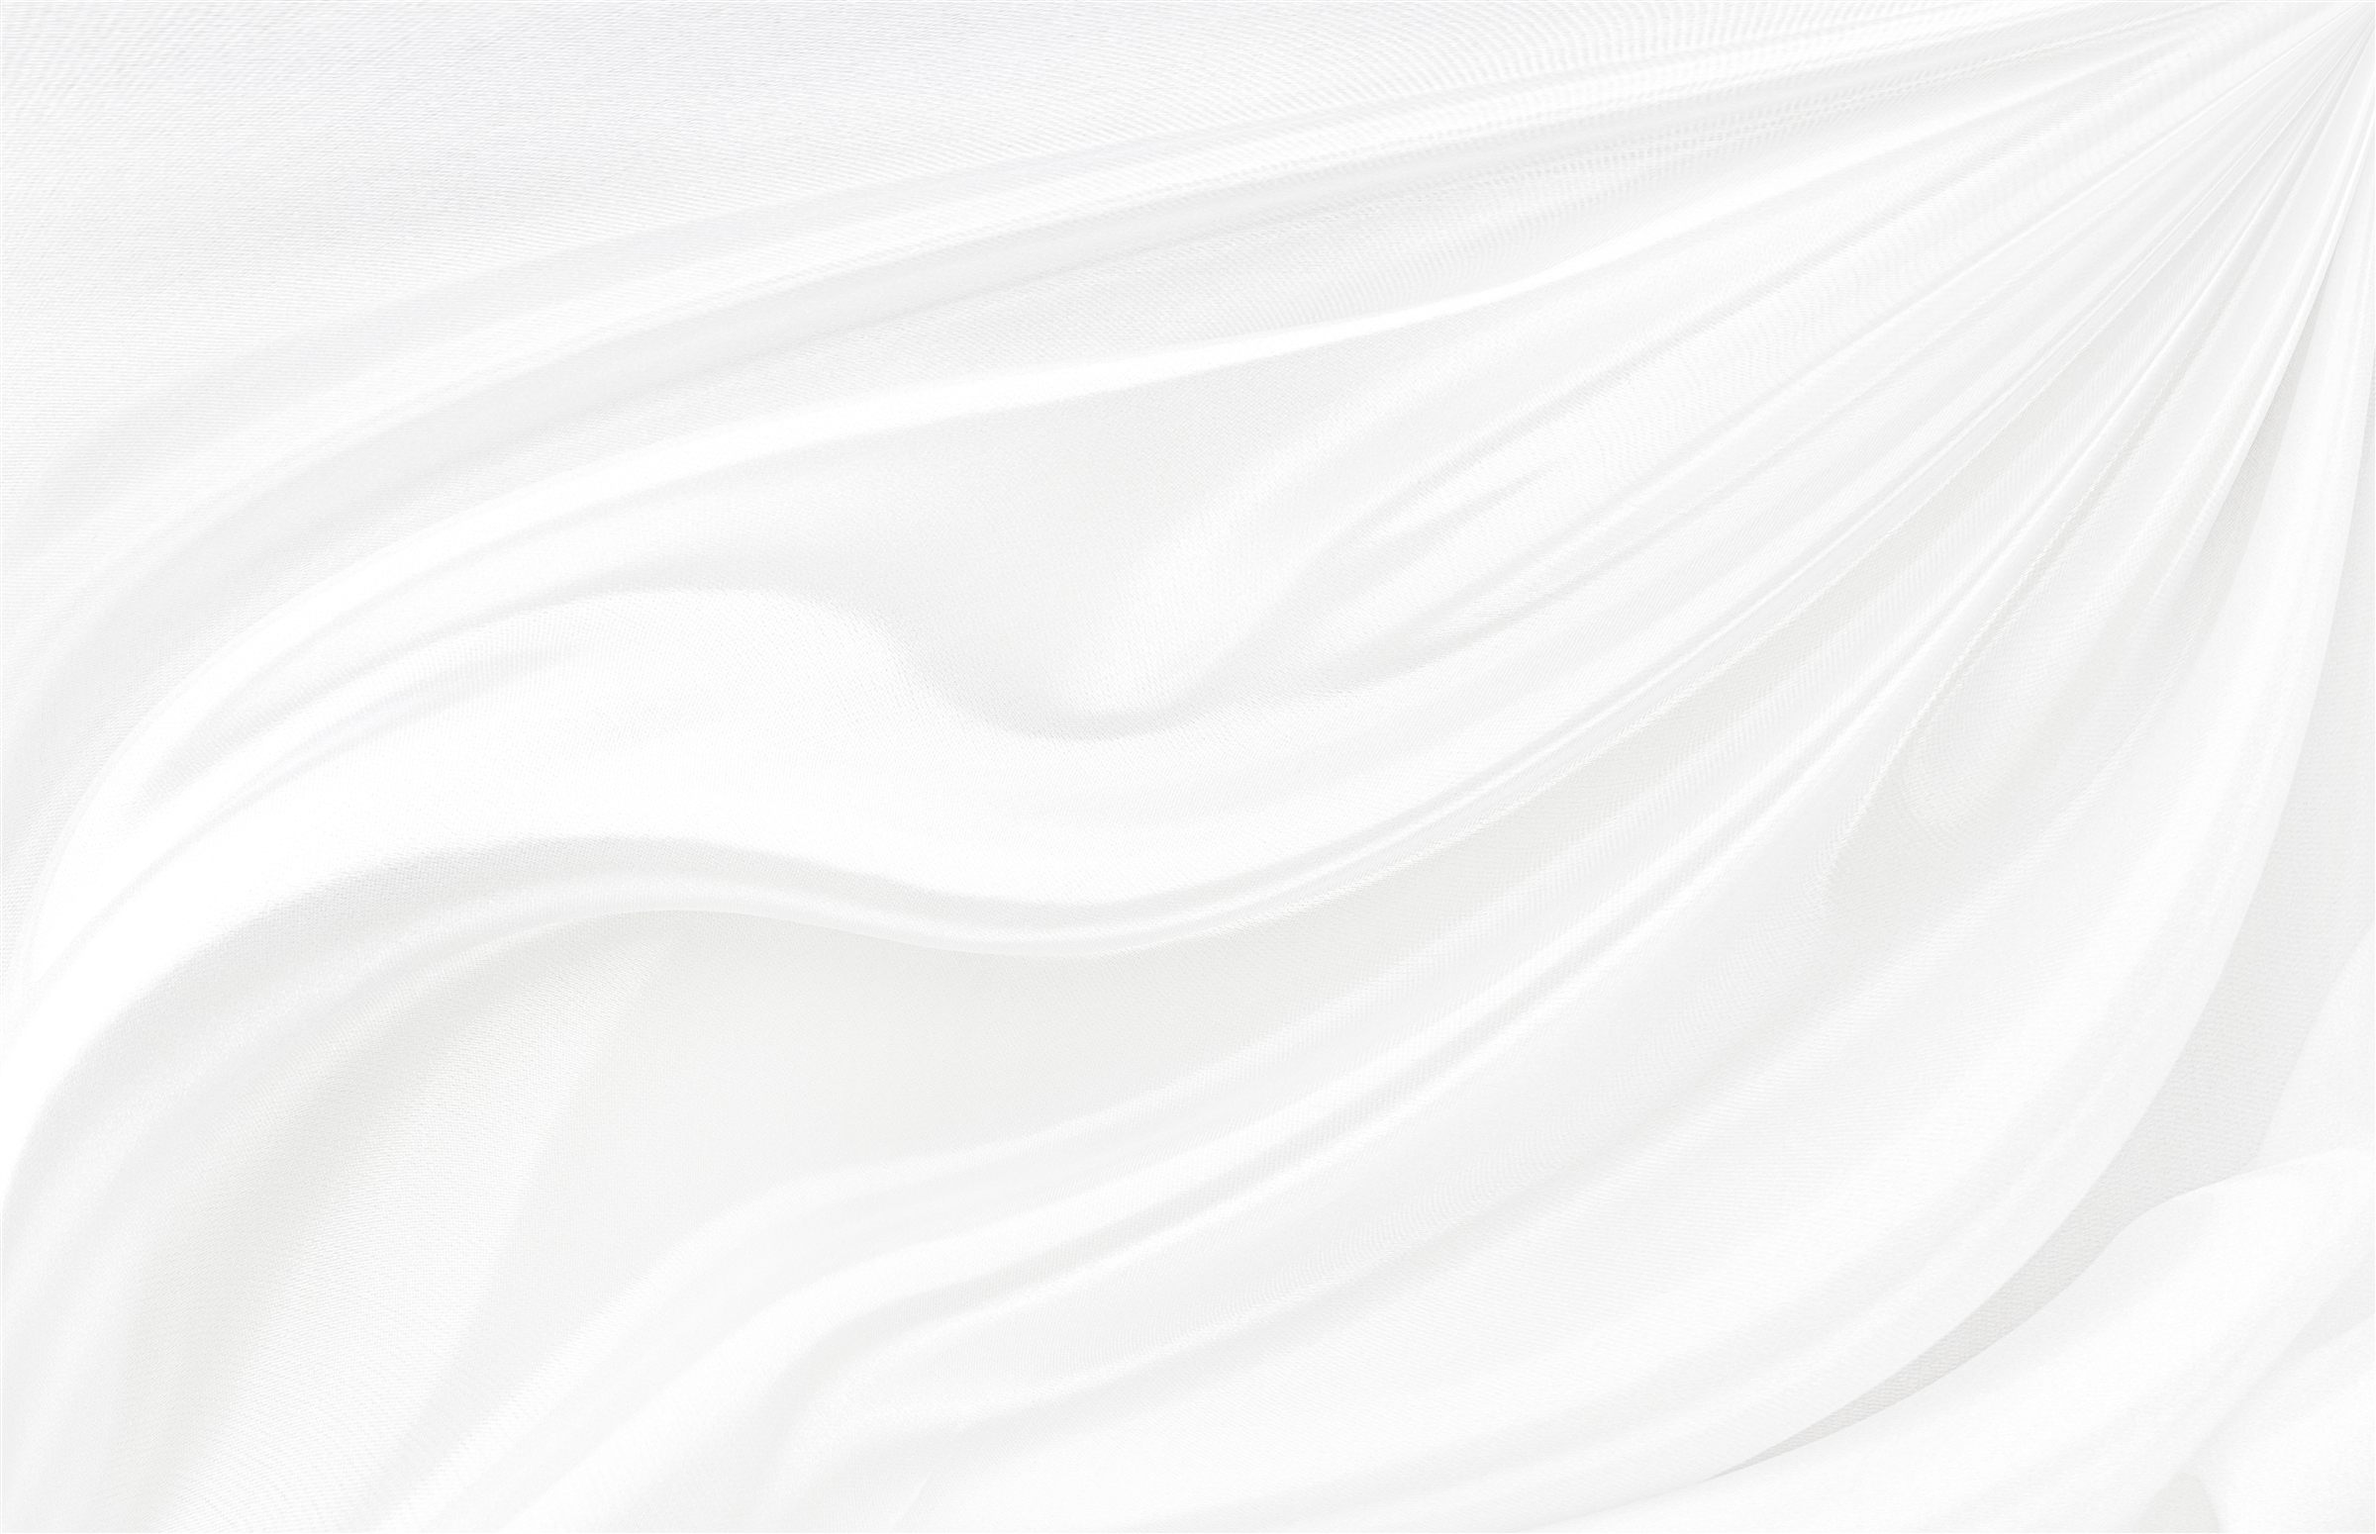
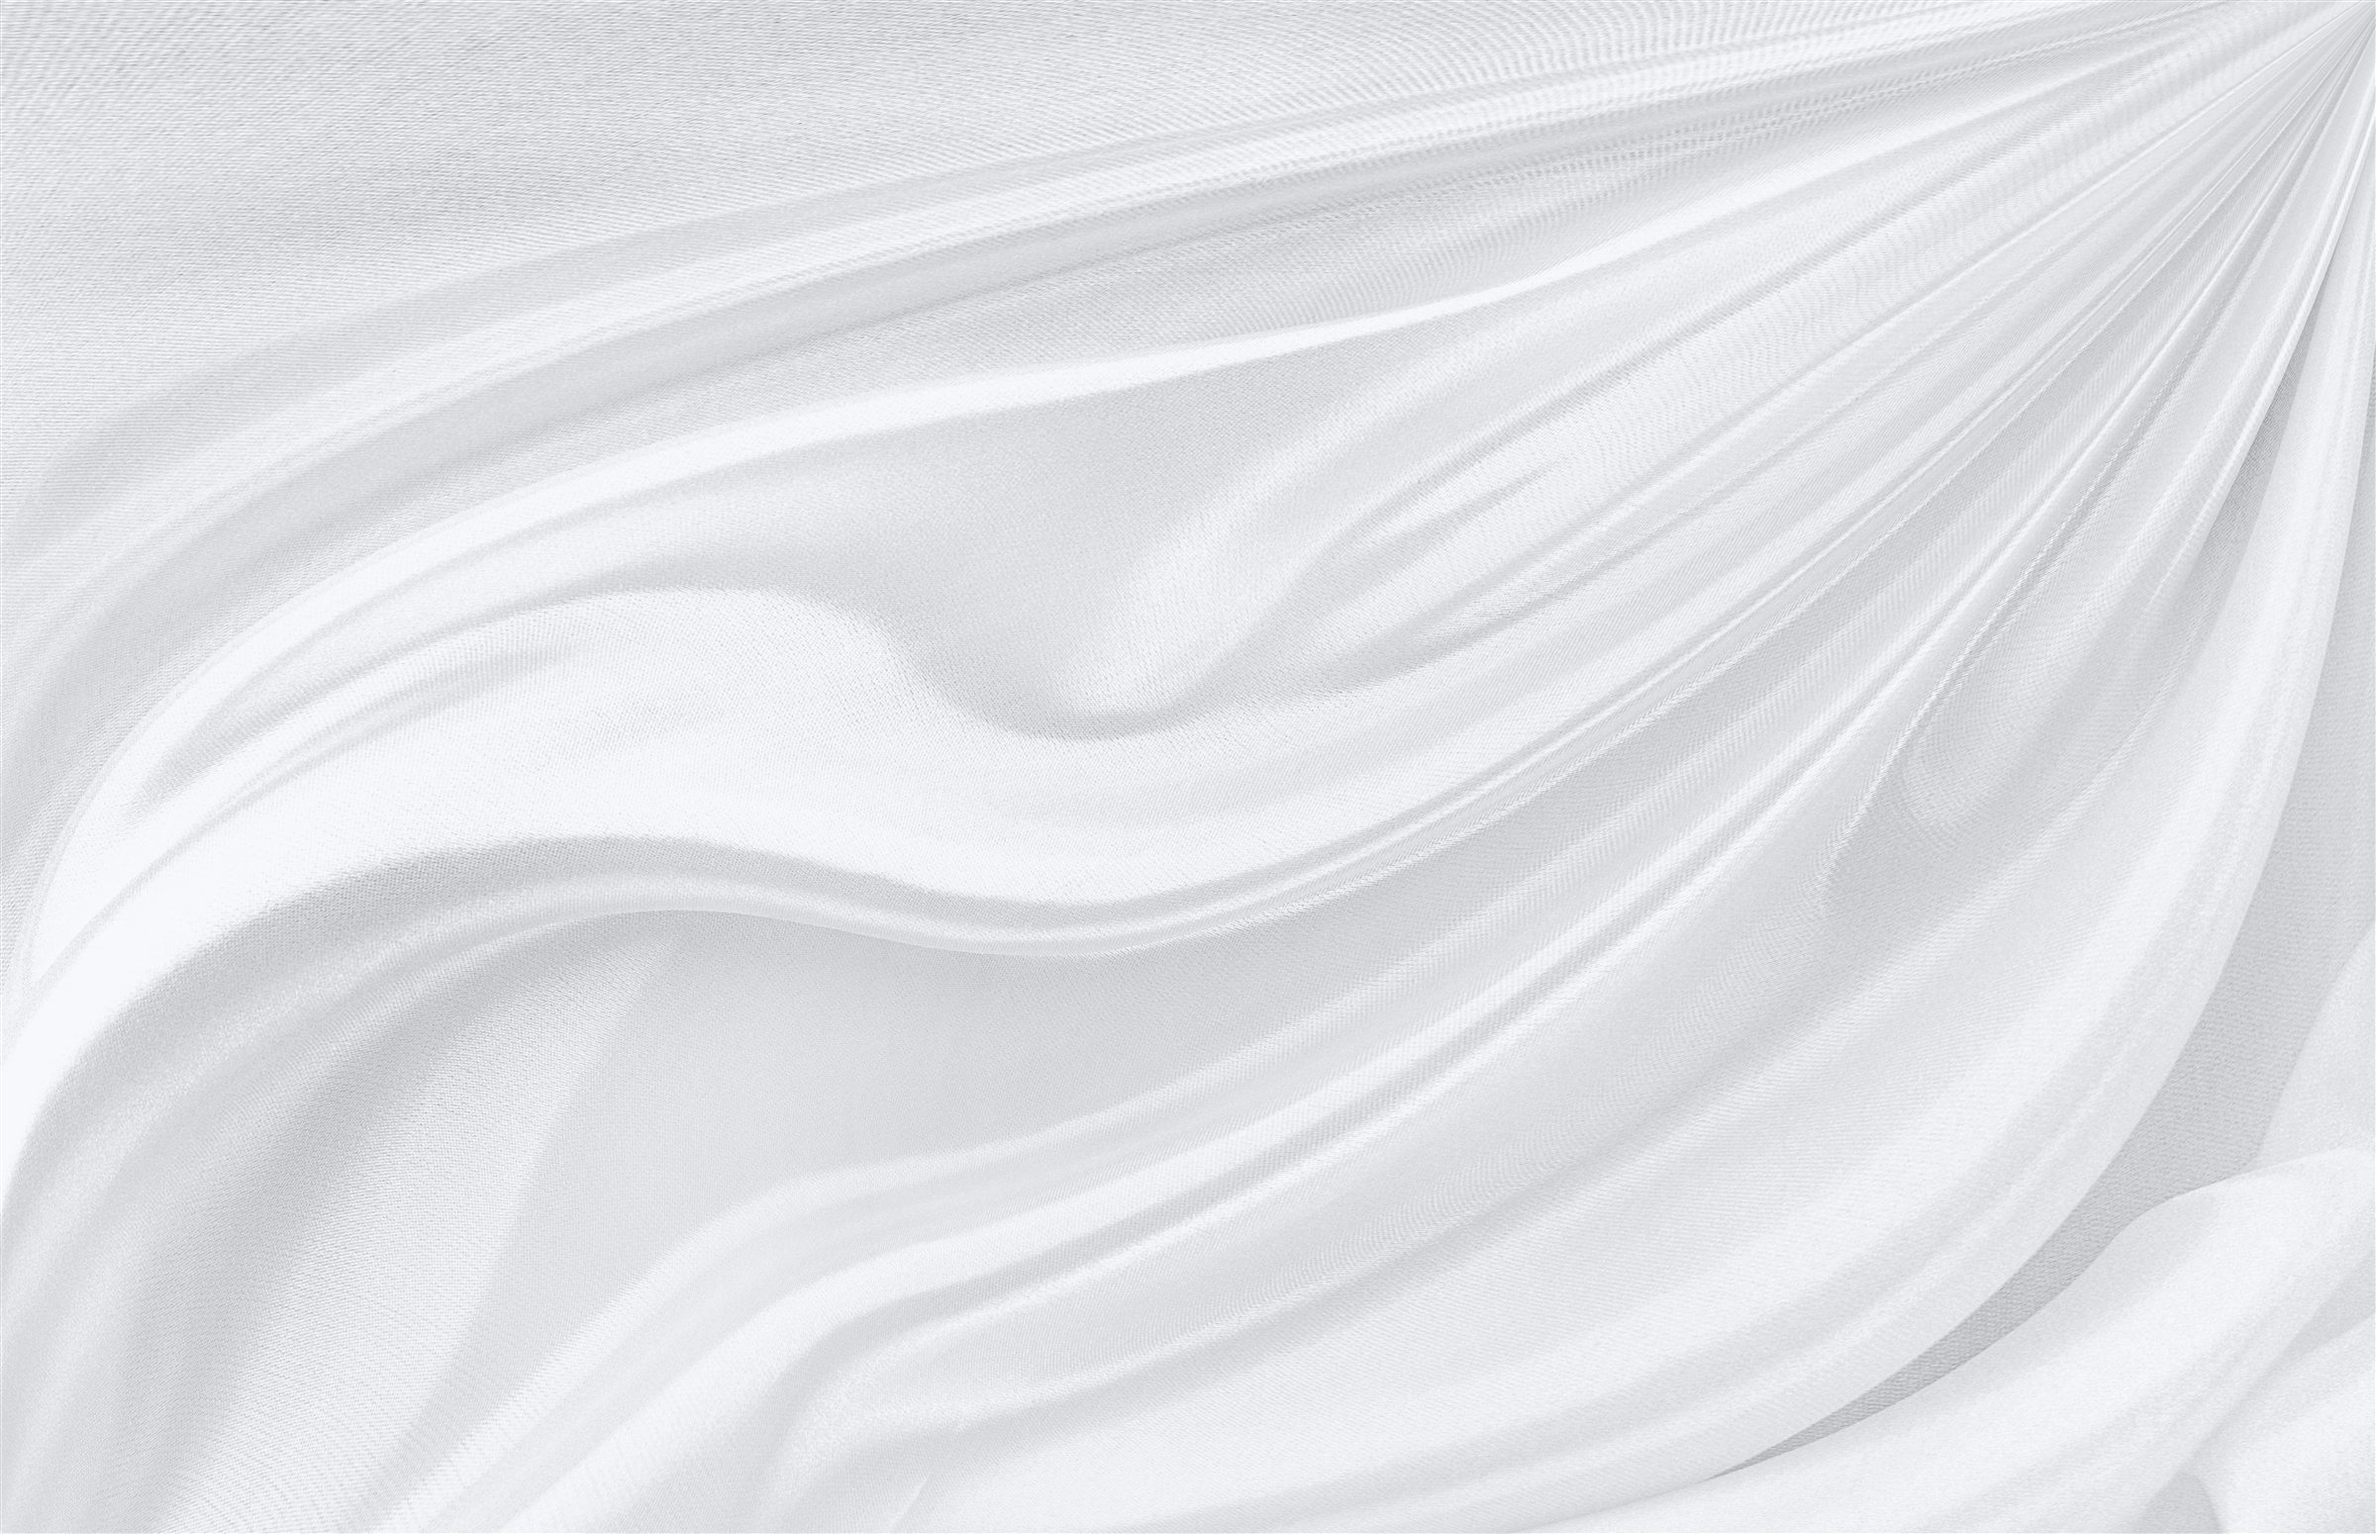
product/xgen: decisive satin bg - gray tone baked into image, drop CSS filter/blend

diff --git a/frontend/src/components/product-xgen/why-xgen.tsx b/frontend/src/components/product-xgen/why-xgen.tsx
@@ -309,7 +309,7 @@ function AuroraBandVideo() {
 }
 
 /* 결정적 차이 배경 — Adobe Stock 1134897320(흰·은회색 새틴 결이 대각선으로 흐르는 실사, 무료 라이선스, 2400px로 축소).
-   그레이 톤 유지: 사진을 흑백으로 바꿔 옅은 회색 바탕(#e9ebef) 위에 곱하기로 얹고, 결의 명암만 살짝 올린다.
+   그레이 톤 유지: 흑백·회색 톤(중앙값 ≈ #e6e9ec)을 이미지 파일에 미리 입혀 CSS 필터·블렌드 없이 그대로 쓴다.
    결이 아주 천천히 비스듬히 흘러가듯 움직인다(동작 줄이기 땐 정지). 가운데는 밝은 회색 막으로 글 읽힘을 확보. */
 function DecisiveSatinBg() {
     return (
@@ -317,11 +317,11 @@ function DecisiveSatinBg() {
             <img
                 src="/product/why/decisive-satin.jpg"
                 alt=""
-                className="decisive-satin absolute inset-[-6%] h-[112%] w-[112%] max-w-none object-cover object-center opacity-[0.9] mix-blend-multiply [filter:grayscale(1)_contrast(1.25)_brightness(0.98)]"
+                className="decisive-satin absolute inset-[-6%] h-[112%] w-[112%] max-w-none object-cover object-center"
                 loading="lazy"
                 decoding="async"
             />
-            <div className="absolute inset-0 bg-[radial-gradient(60%_55%_at_50%_45%,rgba(244,245,247,0.8)_0%,rgba(240,241,244,0.45)_55%,rgba(233,235,239,0)_100%)]" />
+            <div className="absolute inset-0 bg-[radial-gradient(55%_45%_at_50%_45%,rgba(236,238,241,0.6)_0%,rgba(233,235,239,0.25)_60%,rgba(233,235,239,0)_100%)]" />
         </div>
     );
 }
